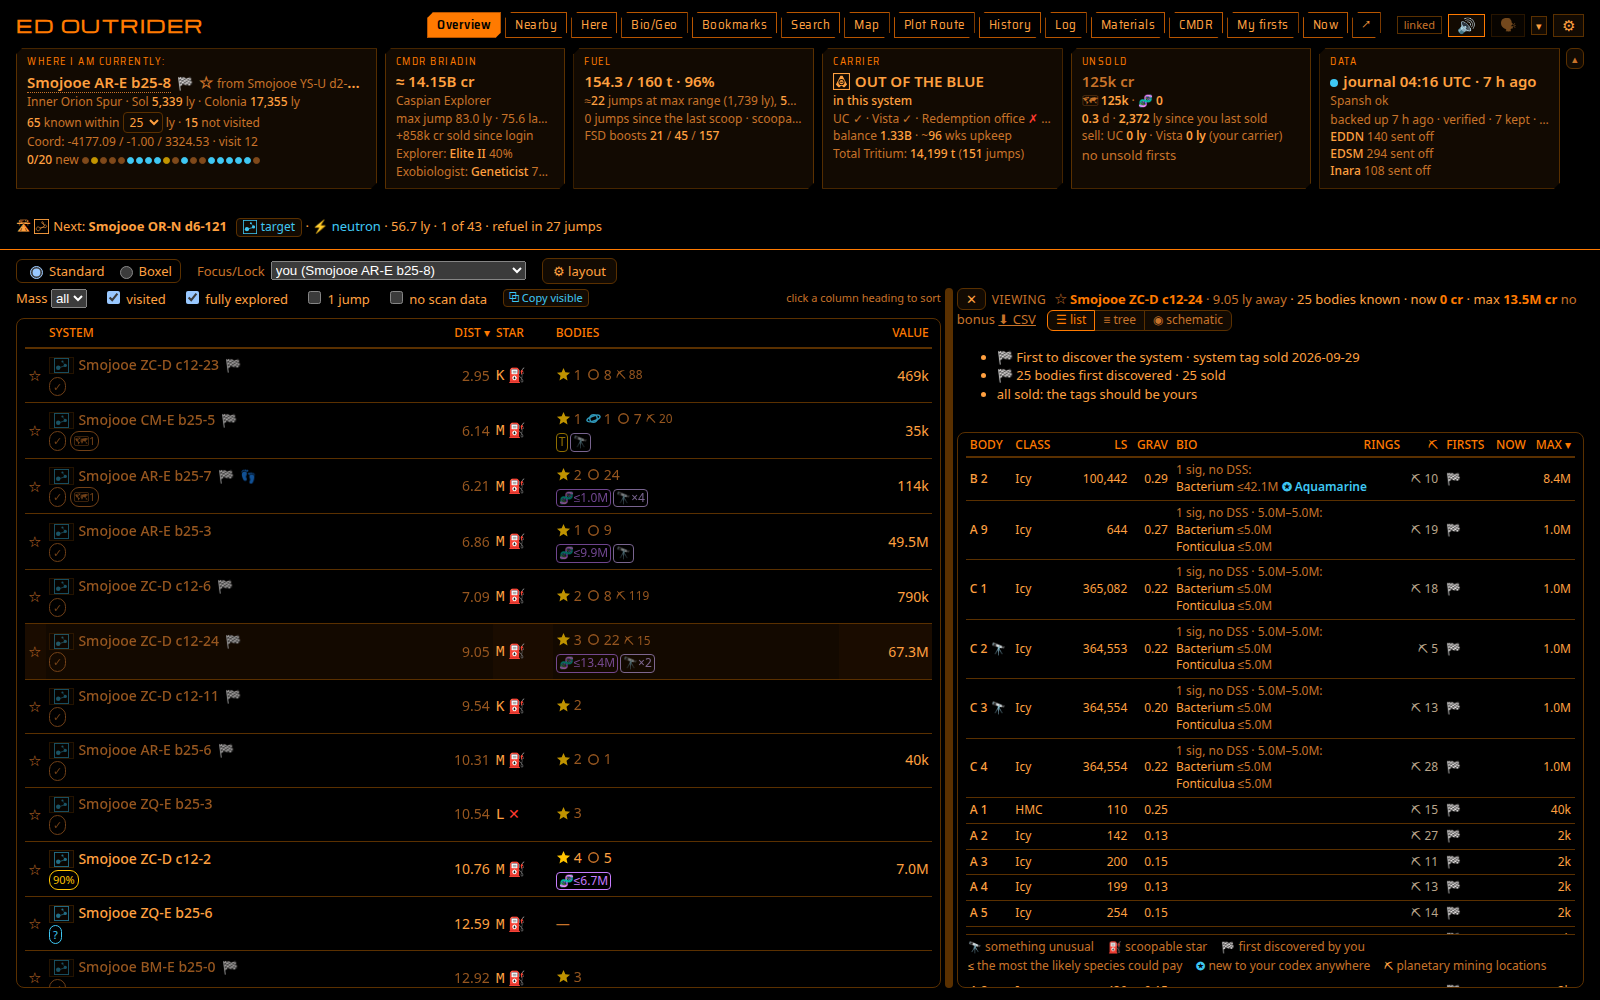
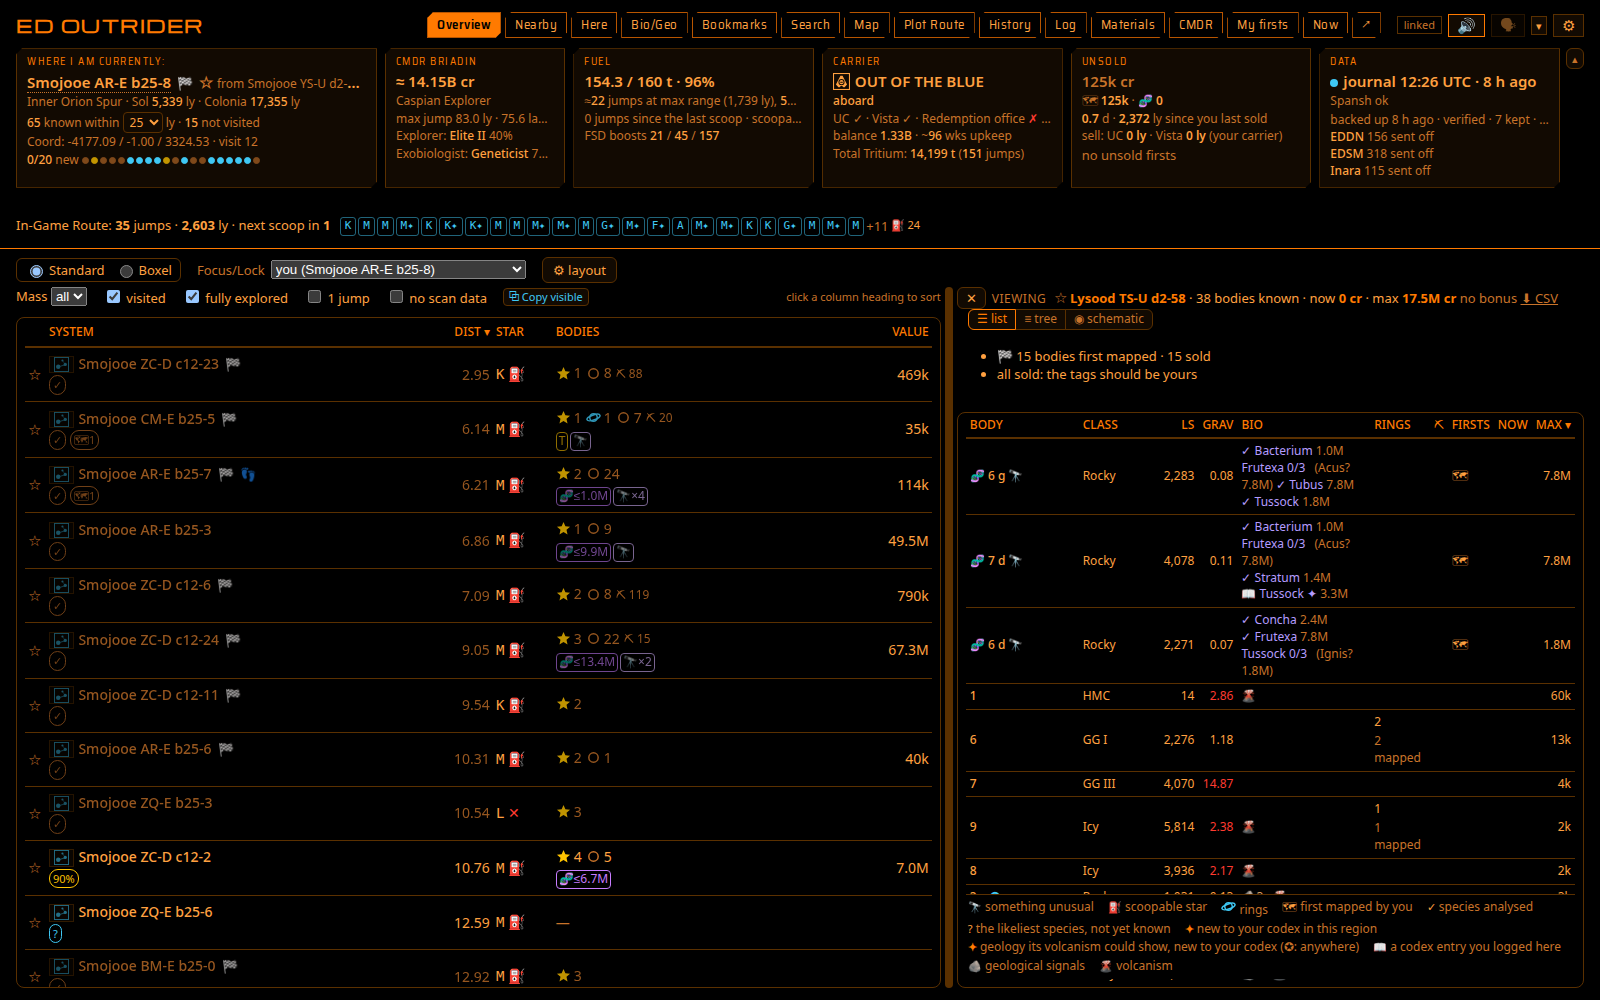
The overview shot pinned on Lysood TS-U d2-58: a list with more in it

diff --git a/docs/CHANGELOG.md b/docs/CHANGELOG.md
@@ -2,6 +2,11 @@
 
 Newest first, one entry per commit.
 
+## 2026-10-15 · The overview shot pinned on Lysood TS-U d2-58: a list with more in it
+- `docs/images/overview.png` retaken as before (Overview, Elite theme, 1600x1000, Here in its list view beside Nearby,
+  the route line shown) but viewing Lysood TS-U d2-58: three bio bodies with sampled species (a Stratum among them),
+  ringed bodies and a 17.5M max, where the old shot's list had little in it.
+
 ## 2026-10-15 · The docking pad shot, cropped
 - `docs/images/overlay-pad-crop.png` (760x465: the starport and carrier pad panels side by side) and
   `overlay-pad-starport.png` (the starport panel alone), cut from overlay-pad.png, for listings that crop or shrink.
